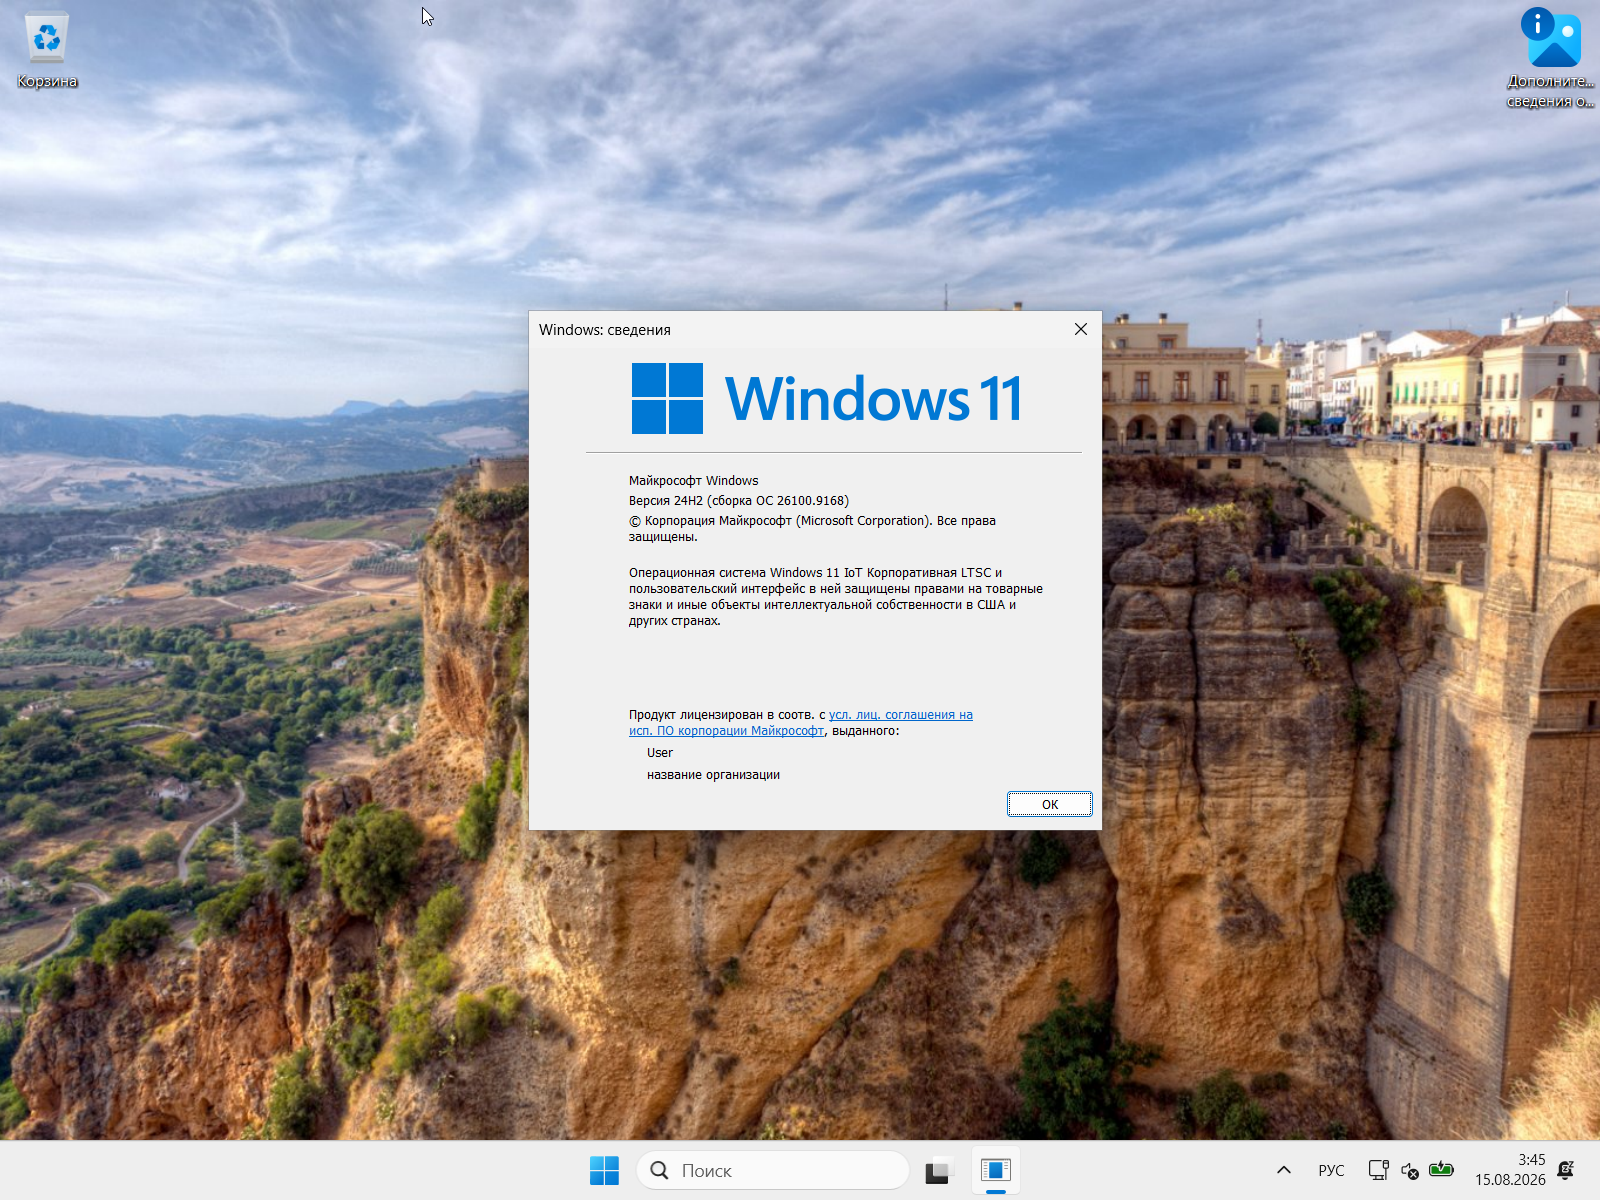
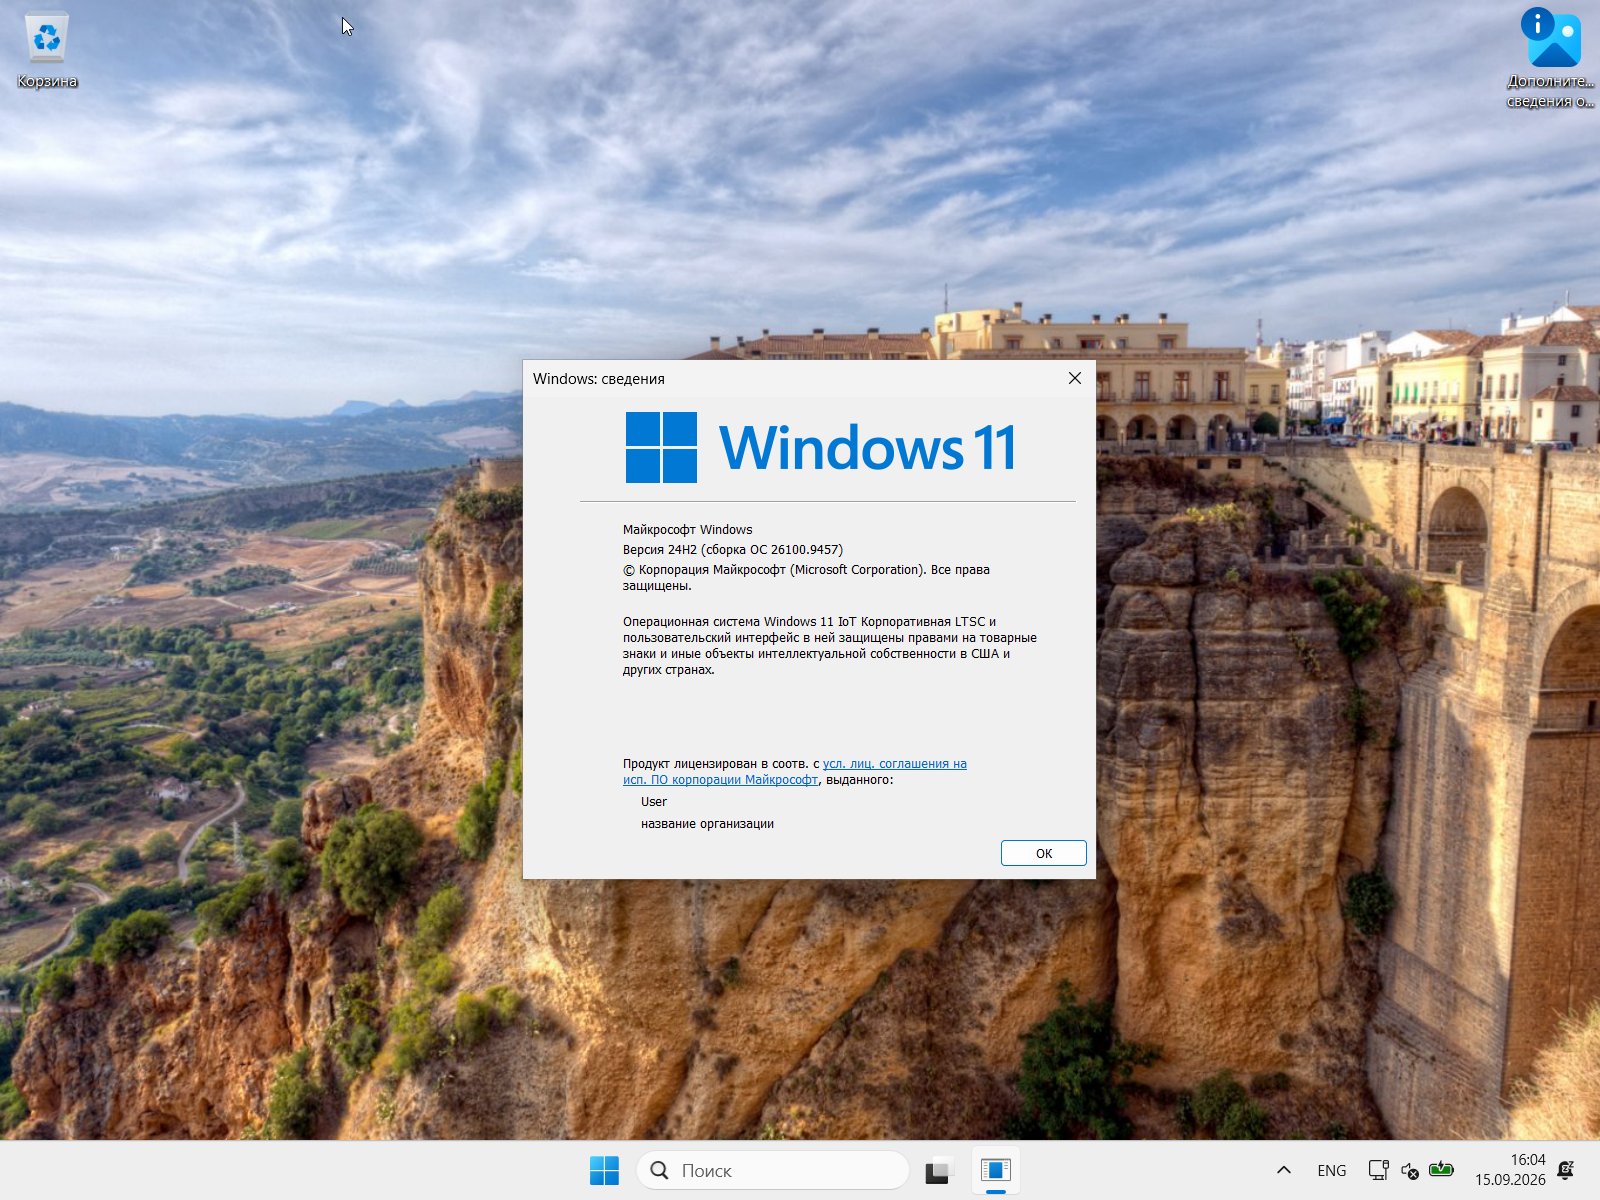
update

Changed region(s): [[0.3125, 0.2467, 0.6875, 0.7708], [0.9375, 0.9558, 0.9688, 0.9867]]

diff --git a/index.html b/index.html
@@ -66,7 +66,7 @@
             </a>
             <div class="card-details">
               <span class="lang-en">Language: English<br></span><span class="lang-ru">Язык: Английский<br></span>
-              <span class="lang-en">Update: 26100.9168 (August 2026)<br></span><span class="lang-ru">Обновление: 26100.9168 (Август 2026)<br></span>
+              <span class="lang-en">Update: 26100.9457 (September 2026)<br></span><span class="lang-ru">Обновление: 26100.9457 (Сентябрь 2026)<br></span>
               <span class="lang-en">Edition: IoT Enterprise LTSC<br></span><span class="lang-ru">Издание: IoT Enterprise LTSC<br></span>
               <span class="lang-en">Version: 24H2<br></span><span class="lang-ru">Версия: 24H2<br></span>
               <span class="lang-en">Author: somov<br></span><span class="lang-ru">Автор: somov<br></span>
@@ -79,47 +79,8 @@
         </div>
         <div class="card-right">
           <div class="card-actions">
-            <a class="btn" href="https://dl3.somov.org/en-us_windows_11_iot_enterprise_ltsc_2024_x64_26100.9168_by_somov.iso"><span class="lang-en">Download</span><span class="lang-ru">Скачать</span></a>
-            <a class="torrent-link" href="https://dl3.somov.org/en-us_windows_11_iot_enterprise_ltsc_2024_x64_26100.9168_by_somov.iso.torrent"><span class="lang-en">Download by torrent</span><span class="lang-ru">Скачать с помощью torrent</span></a>
-          </div>
-        </div>
-      </section>
-
-      <section class="card card-promo">
-        <div class="card-left">
-          <div class="card-info">
-            <a href="https://vycevpn.com/" target="_blank" class="card-title">
-                <span class="lang-en">Network Tool: VYCE VPN</span>
-                <span class="lang-ru">VYCE VPN</span>
-            </a>
-            <div class="card-details">
-              <span class="lang-en">Specs List:<br></span><span class="lang-ru">Список характеристик:<br></span>
-              <span class="lang-en">Protocol: VLESS Reality<br></span><span class="lang-ru">Протокол: VLESS Reality<br></span>
-              <span class="lang-en">Bandwidth: 1 Gbps<br></span><span class="lang-ru">Пропускная способность: до 10 Гбит/с<br></span>
-              <span class="lang-en">Compatibility: Windows, iOS, Android, TV, Linux, macOS<br></span><span class="lang-ru">Совместимость: Windows, iOS, Android, TV, Linux, macOS<br></span>
-              <br><span class="lang-en">
-                Promo code:
-                <span class="copy-promo" data-code="WINDOWS">
-                  WINDOWS
-                  <span class="promo-feedback">Copied!</span>
-                </span>
-                (send to bot)<br>7 days VPN free
-              </span>
-              <span class="lang-ru">
-                Промокод:
-                <span class="copy-promo" data-code="WINDOWS">
-                  WINDOWS
-                  <span class="promo-feedback">Скопировано!</span>
-                </span>
-                (отправьте боту)<br>7 дней VPN в подарок
-              </span>
-            </div>
-          </div>
-        </div>
-        <div class="card-right">
-          <div class="card-actions">
-            <a class="btn" href="https://t.me/vycevpn_bot?start=win" target="_blank"><span class="lang-en">Go to bot</span><span class="lang-ru">Перейти в бот</span></a>
-            <a class="torrent-link" href="https://t.me/+lre0l5TorYNmODgy" target="_blank"><span class="lang-en">Telegram channel</span><span class="lang-ru">Телеграм канал</span></a>
+            <a class="btn" href="https://dl3.somov.org/en-us_windows_11_iot_enterprise_ltsc_2024_x64_26100.9457_by_somov.iso"><span class="lang-en">Download</span><span class="lang-ru">Скачать</span></a>
+            <a class="torrent-link" href="https://dl3.somov.org/en-us_windows_11_iot_enterprise_ltsc_2024_x64_26100.9457_by_somov.iso.torrent"><span class="lang-en">Download by torrent</span><span class="lang-ru">Скачать с помощью torrent</span></a>
           </div>
         </div>
       </section>
@@ -133,7 +94,7 @@
             </a>
             <div class="card-details">
               <span class="lang-en">Language: Russian<br></span><span class="lang-ru">Язык: Русский<br></span>
-              <span class="lang-en">Update: 26100.9168 (August 2026)<br></span><span class="lang-ru">Обновление: 26100.9168 (Август 2026)<br></span>
+              <span class="lang-en">Update: 26100.9457 (September 2026)<br></span><span class="lang-ru">Обновление: 26100.9457 (Сентябрь 2026)<br></span>
               <span class="lang-en">Edition: IoT Enterprise LTSC<br></span><span class="lang-ru">Издание: IoT Enterprise LTSC<br></span>
               <span class="lang-en">Version: 24H2<br></span><span class="lang-ru">Версия: 24H2<br></span>
               <span class="lang-en">Author: somov<br></span><span class="lang-ru">Автор: somov<br></span>
@@ -146,8 +107,8 @@
         </div>
         <div class="card-right">
           <div class="card-actions">
-            <a class="btn" href="https://dl3.somov.org/ru-ru_windows_11_iot_enterprise_ltsc_2024_x64_26100.9168_by_somov.iso"><span class="lang-en">Download</span><span class="lang-ru">Скачать</span></a>
-            <a class="torrent-link" href="https://dl3.somov.org/ru-ru_windows_11_iot_enterprise_ltsc_2024_x64_26100.9168_by_somov.iso.torrent"><span class="lang-en">Download by torrent</span><span class="lang-ru">Скачать с помощью torrent</span></a>
+            <a class="btn" href="https://dl3.somov.org/ru-ru_windows_11_iot_enterprise_ltsc_2024_x64_26100.9457_by_somov.iso"><span class="lang-en">Download</span><span class="lang-ru">Скачать</span></a>
+            <a class="torrent-link" href="https://dl3.somov.org/ru-ru_windows_11_iot_enterprise_ltsc_2024_x64_26100.9457_by_somov.iso.torrent"><span class="lang-en">Download by torrent</span><span class="lang-ru">Скачать с помощью torrent</span></a>
           </div>
         </div>
       </section>

diff --git a/windows-11-en/index.html b/windows-11-en/index.html
@@ -53,7 +53,7 @@
             <div class="card-text"><a href="/" class="return-link"><span class="lang-en"><b>Return to Home</b></span><span class="lang-ru"><b>Вернуться на главную</b></span></a></div>
             <div class="card-text"><span class="lang-en">Language: English</span><span class="lang-ru">Язык: Английский</span></div>
             <div class="card-text"><span class="lang-en">Windows 11 IoT Enterprise LTSC (Long-Term Servicing Channel) is a lightweight version of Windows with long-term support, designed for stable performance on embedded devices and specialized systems. It excludes unnecessary apps, reducing system requirements and making it an ideal solution where reliability and minimal interference are critical.</span><span class="lang-ru">Windows 11 IoT Enterprise LTSC (Long-Term Servicing Channel) — это облегченная версия Windows с долгосрочной поддержкой, разработанная для стабильной работы на встраиваемых устройствах и специализированных системах. Она исключает ненужные приложения, снижая системные требования и делая ее идеальным решением там, где критически важны надежность и минимальное вмешательство.</span></div>
-            <div class="updated"><span class="lang-en"><b>TPM, Secure Boot, and OOBE checks are disabled,<br>Updated to 26100.9168 (August 2026) by somov</b></span><span class="lang-ru"><b>Проверки TPM, Secure Boot и OOBE отключены,<br>Обновлено до 26100.9168 (Август 2026) by somov</b></span></div>
+            <div class="updated"><span class="lang-en"><b>TPM, Secure Boot, and OOBE checks are disabled,<br>Updated to 26100.9457 (September 2026) by somov</b></span><span class="lang-ru"><b>Проверки TPM, Secure Boot и OOBE отключены,<br>Обновлено до 26100.9457 (Сентябрь 2026) by somov</b></span></div>
             <div class="card-text"><span class="lang-en"><b>System Requirements:</b></span><span class="lang-ru"><b>Системные требования:</b></span></div>
             <div class="card-text">
               <ol class="marker-list">
@@ -66,13 +66,13 @@
             </div>
             <div class="card-text"><span class="lang-en"><b>Image checksums:</b></span><span class="lang-ru"><b>Контрольные суммы образа:</b></span></div>
             <div class="card-text">
-              <ol class="marker-list"><li><b>CRC32:</b> 24335d4b</li>
-              <li><b>MD5:</b> c9b5e8de855205c1d716c58c3cc9537a</li>
-              <li><b>SHA-1:</b> 691c9d86bfae4d7787c97906eff9a5188c0b9f07</li>
+              <ol class="marker-list"><li><b>CRC32:</b> 5d3de871</li>
+              <li><b>MD5:</b> 8124c71c190359d8ee1c4bd70e85cde7</li>
+              <li><b>SHA-1:</b> b6feb7acb8d328e3aa2fa89b232b210450fbe6ed</li>
             </ol></div>
             <div class="button-container">
-            <a class="btn-windows" href="https://dl3.somov.org/en-us_windows_11_iot_enterprise_ltsc_2024_x64_26100.9168_by_somov.iso"><span class="lang-en">Download</span><span class="lang-ru">Скачать</span></a>
-            <a class="torrent-link" href="https://dl3.somov.org/en-us_windows_11_iot_enterprise_ltsc_2024_x64_26100.9168_by_somov.iso.torrent"><span class="lang-en">Download by torrent</span><span class="lang-ru">Скачать с помощью torrent</span></a>
+            <a class="btn-windows" href="https://dl3.somov.org/en-us_windows_11_iot_enterprise_ltsc_2024_x64_26100.9457_by_somov.iso"><span class="lang-en">Download</span><span class="lang-ru">Скачать</span></a>
+            <a class="torrent-link" href="https://dl3.somov.org/en-us_windows_11_iot_enterprise_ltsc_2024_x64_26100.9457_by_somov.iso.torrent"><span class="lang-en">Download by torrent</span><span class="lang-ru">Скачать с помощью torrent</span></a>
             </div>
   <div class="full-width-section">
     <div class="gallery">

diff --git a/windows-11-ru/index.html b/windows-11-ru/index.html
@@ -53,7 +53,7 @@
             <div class="card-text"><a href="/" class="return-link"><span class="lang-en"><b>Return to Home</b></span><span class="lang-ru"><b>На главную</b></span></a></div>
             <div class="card-text"><span class="lang-en">Language: Russian</span><span class="lang-ru">Язык: Русский</span></div>
             <div class="card-text"><span class="lang-en">Windows 11 IoT Enterprise LTSC (Long-Term Servicing Channel) is a lightweight version of Windows with long-term support, designed for stable performance on embedded devices and specialized systems. It excludes unnecessary apps, reducing system requirements and making it an ideal solution where reliability and minimal interference are critical.</span><span class="lang-ru">Windows 11 IoT Enterprise LTSC (Long-Term Servicing Channel) — это облегчённая версия Windows с долгосрочной поддержкой, разработанная для стабильной работы на встраиваемых устройствах и специализированных системах. Она лишена лишних приложений, что снижает системные требования и делает её идеальным решением, где важны надёжность и минимальное вмешательство.</span></div>
-            <div class="updated"><span class="lang-en"><b>TPM, Secure Boot, and OOBE checks are disabled,<br>Updated to 26100.9168 (August 2026) by somov</b></span><span class="lang-ru"><b>Проверки TPM, Secure Boot и OOBE отключены,<br>Обновлено до 26100.9168 (Август 2026) by somov</b></span></div>
+            <div class="updated"><span class="lang-en"><b>TPM, Secure Boot, and OOBE checks are disabled,<br>Updated to 26100.9457 (September 2026) by somov</b></span><span class="lang-ru"><b>Проверки TPM, Secure Boot и OOBE отключены,<br>Обновлено до 26100.9457 (Сентябрь 2026) by somov</b></span></div>
             <div class="card-text"><span class="lang-en"><b>System Requirements:</b></span><span class="lang-ru"><b>Системные требования:</b></span></div>
             <div class="card-text">
               <ol class="marker-list">
@@ -66,13 +66,13 @@
             </div>
             <div class="card-text"><span class="lang-en"><b>Image checksums:</b></span><span class="lang-ru"><b>Контрольные суммы:</b></span></div>
             <div class="card-text">
-              <ol class="marker-list"><li><b>CRC32:</b> 1c66a2d8</li>
-              <li><b>MD5:</b> c7e1d6f4813e808efa3c6971ce0d1111</li>
-              <li><b>SHA-1:</b> a452f6b394cdcc06074b83221ec887b4580db651</li>
+              <ol class="marker-list"><li><b>CRC32:</b> 64acff2b</li>
+              <li><b>MD5:</b> d7da4554445aab7433a58cbd5666f87b</li>
+              <li><b>SHA-1:</b> 6ab1cf6c736469af15496a33c542571a72dae355</li>
             </ol></div>
             <div class="button-container">
-            <a class="btn-windows" href="https://dl3.somov.org/ru-ru_windows_11_iot_enterprise_ltsc_2024_x64_26100.9168_by_somov.iso"><span class="lang-en">Download</span><span class="lang-ru">Скачать</span></a>
-            <a class="torrent-link" href="https://dl3.somov.org/ru-ru_windows_11_iot_enterprise_ltsc_2024_x64_26100.9168_by_somov.iso.torrent"><span class="lang-en">Download by torrent</span><span class="lang-ru">Скачать с помощью torrent</span></a>
+            <a class="btn-windows" href="https://dl3.somov.org/ru-ru_windows_11_iot_enterprise_ltsc_2024_x64_26100.9457_by_somov.iso"><span class="lang-en">Download</span><span class="lang-ru">Скачать</span></a>
+            <a class="torrent-link" href="https://dl3.somov.org/ru-ru_windows_11_iot_enterprise_ltsc_2024_x64_26100.9457_by_somov.iso.torrent"><span class="lang-en">Download by torrent</span><span class="lang-ru">Скачать с помощью torrent</span></a>
             </div>
   <div class="full-width-section">
     <div class="gallery">
